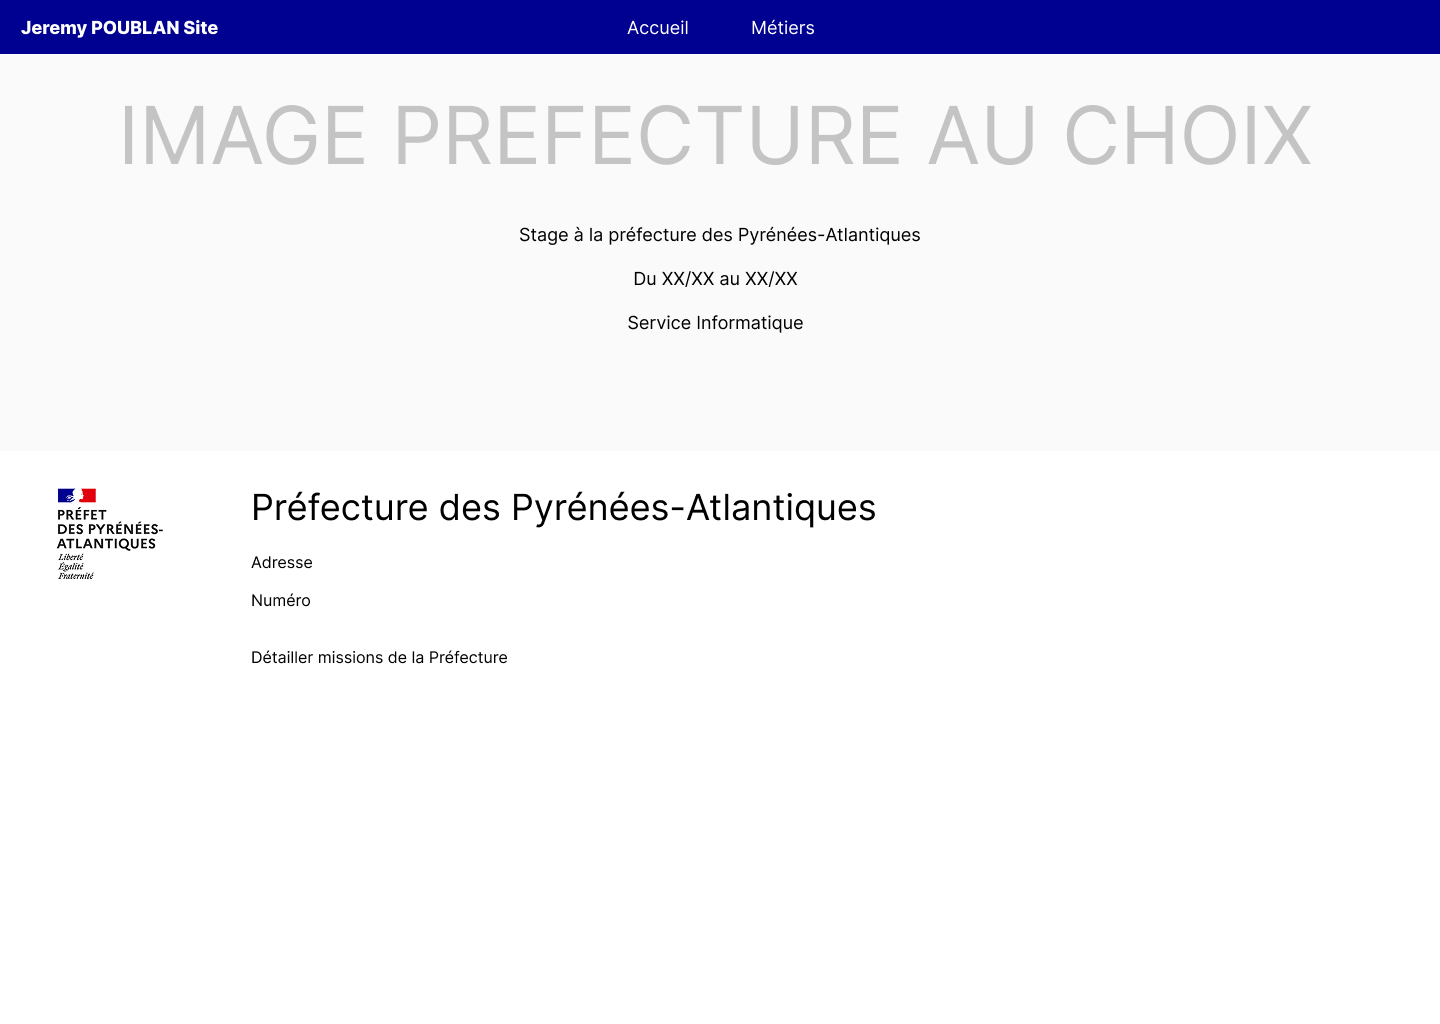
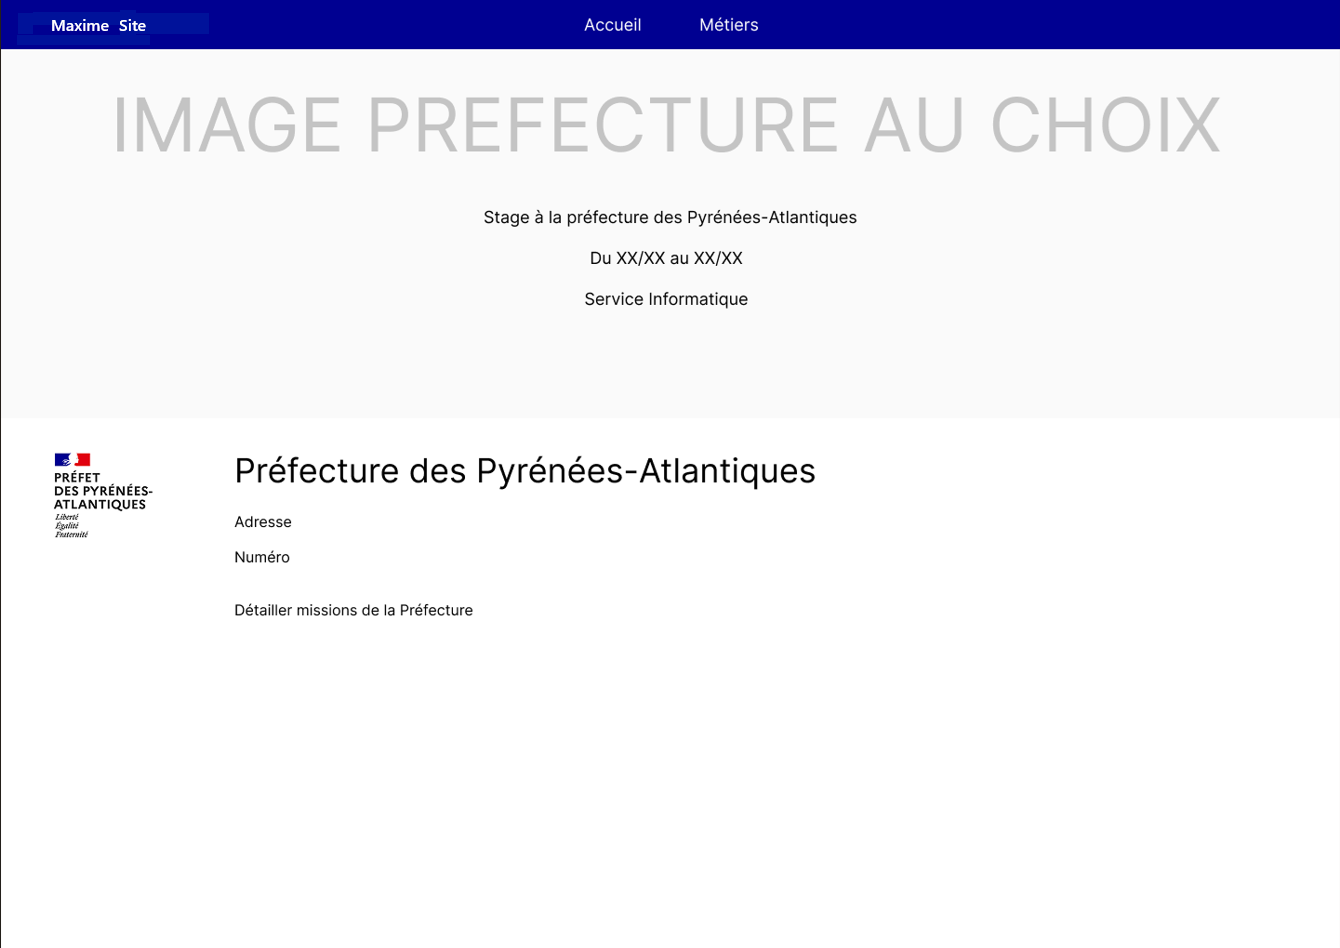
update

diff --git a/README.md b/README.md
@@ -1,6 +1,6 @@
-# Stage Jérémy
+# Stage Maxime
 
-## Jeremy's challenge
+## Maxime's challenge
 
 ## Objectifs :
 
